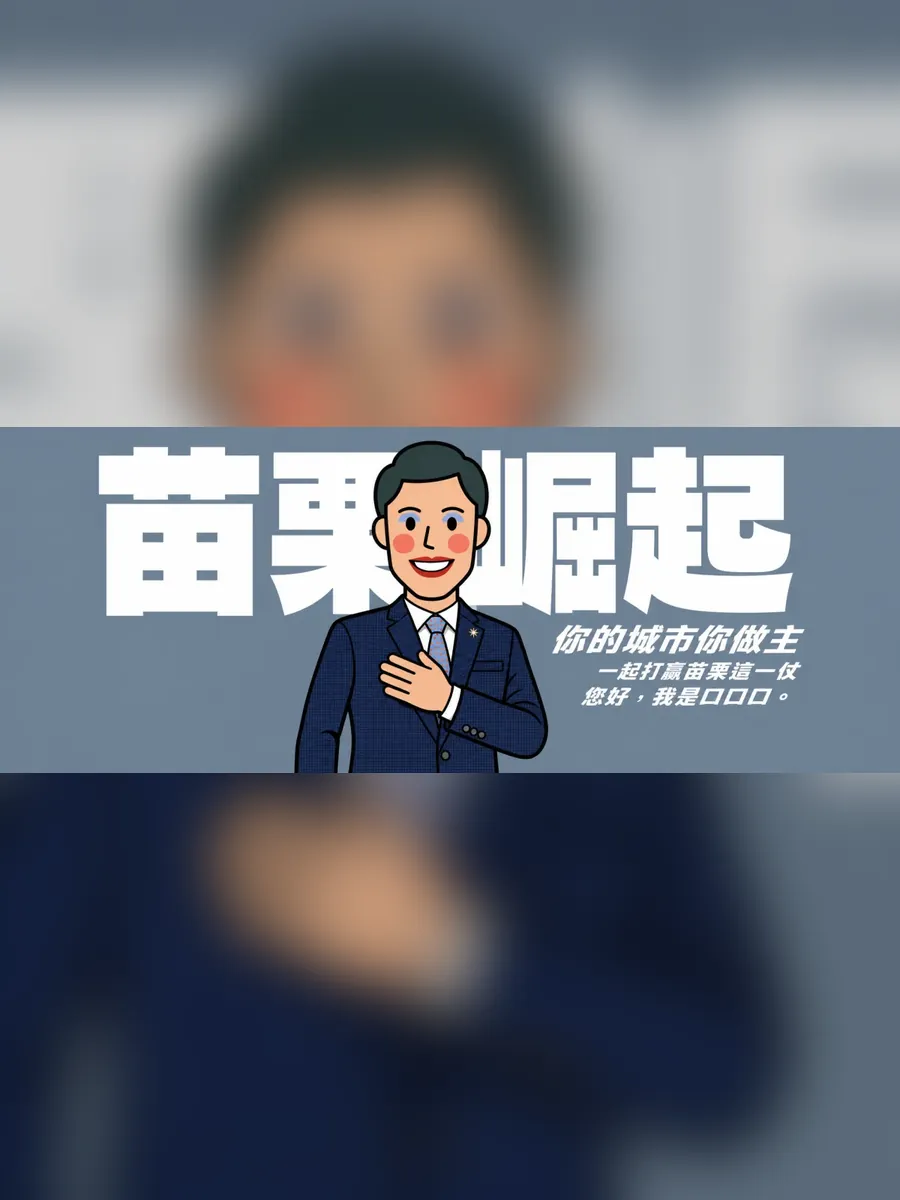
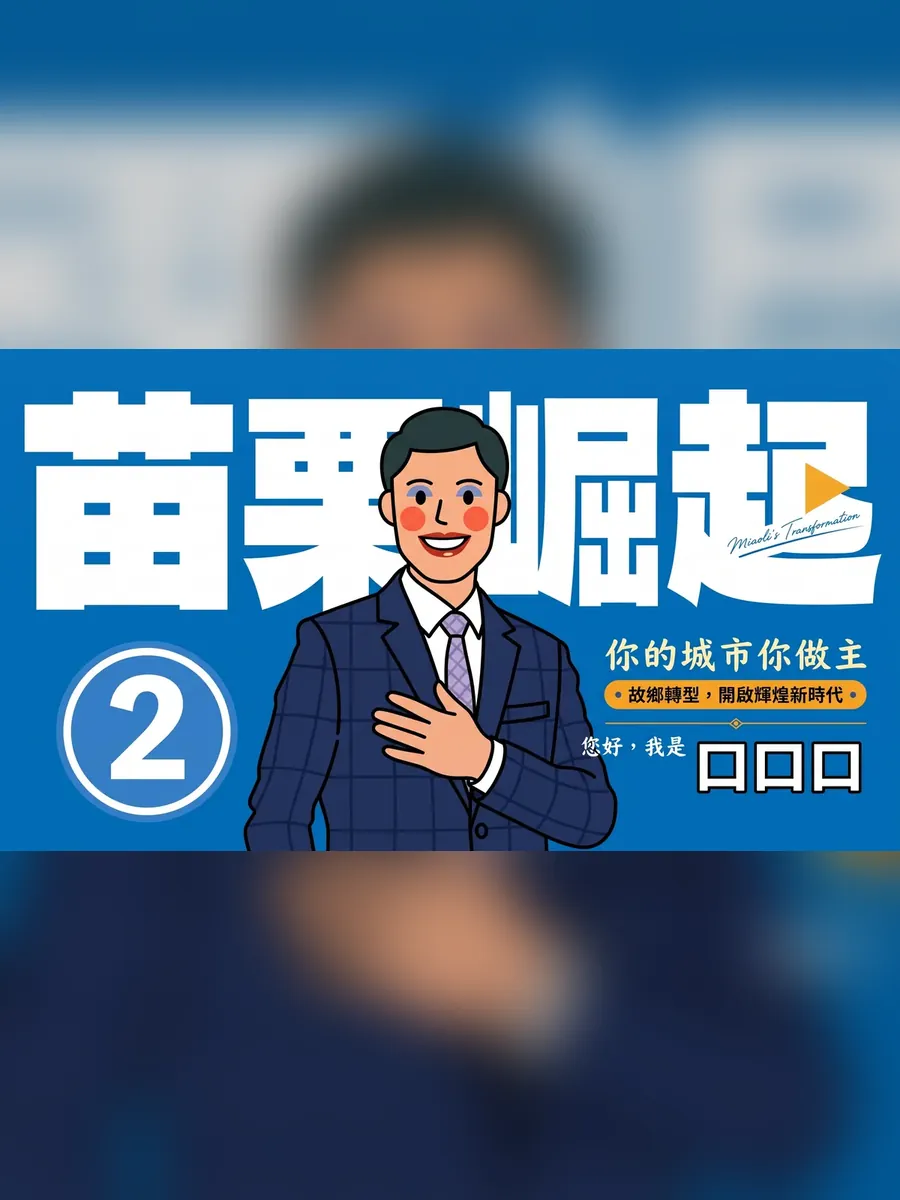
補上非六都 30 位候選人的重繪競選照與外表照
GPT 與 Gemini 重繪的非六都候選人圖片上架，輪播清單一併更新。

diff --git a/index.html b/index.html
@@ -538,15 +538,47 @@ const POSTER_ALTS = {
   "taoyuan-1": ["2"],
   "taoyuan-2": ["2"],
   "taichung-1": ["2","3","4","5","6","7","8","9","10","11","12","13","14","15","16","17","18"],
+  "taichung-3": ["2","3","4"],
   "tainan-2": ["2","3","4"],
-  "tainan-3": ["2"],
+  "tainan-3": ["2","3"],
+  "tainan-4": ["2","3"],
+  "kaohsiung-2": ["2","3"],
+  "kaohsiung-3": ["2","3","4"],
+  "kaohsiung-5": ["2","3","4"],
+  "keelung-1": ["2"],
+  "keelung-3": ["2"],
+  "hsinchucity-1": ["2"],
+  "hsinchucity-2": ["2"],
+  "hsinchucity-3": ["2"],
+  "hsinchucounty-2": ["2"],
   "hsinchucounty-3": ["2"],
   "miaoli-1": ["2"],
+  "miaoli-2": ["2"],
   "changhua-1": ["2"],
+  "changhua-2": ["2"],
+  "changhua-3": ["2"],
+  "nantou-2": ["2"],
+  "yunlin-3": ["2"],
+  "yunlin-4": ["2"],
+  "chiayicity-3": ["2"],
+  "chiayicity-4": ["2"],
+  "chiayicounty-1": ["2"],
+  "chiayicounty-2": ["2"],
+  "pingtung-1": ["2"],
   "yilan-3": ["2","3","4"],
   "hualien-1": ["2","3"],
   "hualien-2": ["2","3"],
-  "hualien-3": ["2","3"]
+  "hualien-3": ["2","3"],
+  "taitung-1": ["2"],
+  "taitung-2": ["2"],
+  "taitung-4": ["2"],
+  "penghu-2": ["2"],
+  "penghu-3": ["2"],
+  "penghu-4": ["2"],
+  "kinmen-2": ["2"],
+  "kinmen-4": ["2"],
+  "kinmen-5": ["2"],
+  "kinmen-6": ["2"]
 };
 const LOOK_ALTS = {
   "taipei-3": ["2","3","4","5","6","7","8","9","10","11","12","13","14","15"],
@@ -558,14 +590,45 @@ const LOOK_ALTS = {
   "taichung-1": ["2","3","4","5","6","7","8","9","10","11","12","13","14"],
   "taichung-3": ["2","3","4"],
   "tainan-2": ["2","3","4"],
+  "tainan-3": ["2","3"],
+  "tainan-4": ["2","3"],
+  "kaohsiung-2": ["2"],
+  "kaohsiung-3": ["2","3","4"],
+  "kaohsiung-5": ["2","3","4"],
+  "keelung-1": ["2"],
+  "keelung-3": ["2"],
+  "hsinchucity-1": ["2"],
+  "hsinchucity-2": ["2"],
+  "hsinchucity-3": ["2"],
+  "hsinchucounty-2": ["2"],
   "hsinchucounty-3": ["2"],
   "miaoli-1": ["2"],
   "miaoli-2": ["2"],
   "changhua-1": ["2"],
+  "changhua-2": ["2"],
+  "changhua-3": ["2"],
+  "nantou-2": ["2"],
+  "yunlin-3": ["2"],
+  "yunlin-4": ["2"],
+  "chiayicity-3": ["2"],
+  "chiayicity-4": ["2"],
+  "chiayicounty-1": ["2"],
+  "chiayicounty-2": ["2"],
+  "pingtung-1": ["2"],
   "yilan-3": ["2"],
   "hualien-1": ["2","3"],
   "hualien-2": ["2","3"],
-  "hualien-3": ["2"]
+  "hualien-3": ["2"],
+  "taitung-1": ["2"],
+  "taitung-2": ["2"],
+  "taitung-4": ["2"],
+  "penghu-2": ["2"],
+  "penghu-3": ["2"],
+  "penghu-4": ["2"],
+  "kinmen-2": ["2"],
+  "kinmen-4": ["2"],
+  "kinmen-5": ["2"],
+  "kinmen-6": ["2"]
 };
 const imgAlts = (kind,key) => ((kind==="look" ? LOOK_ALTS : POSTER_ALTS)[key]||[]);
 function nextPoster(key, pool){
